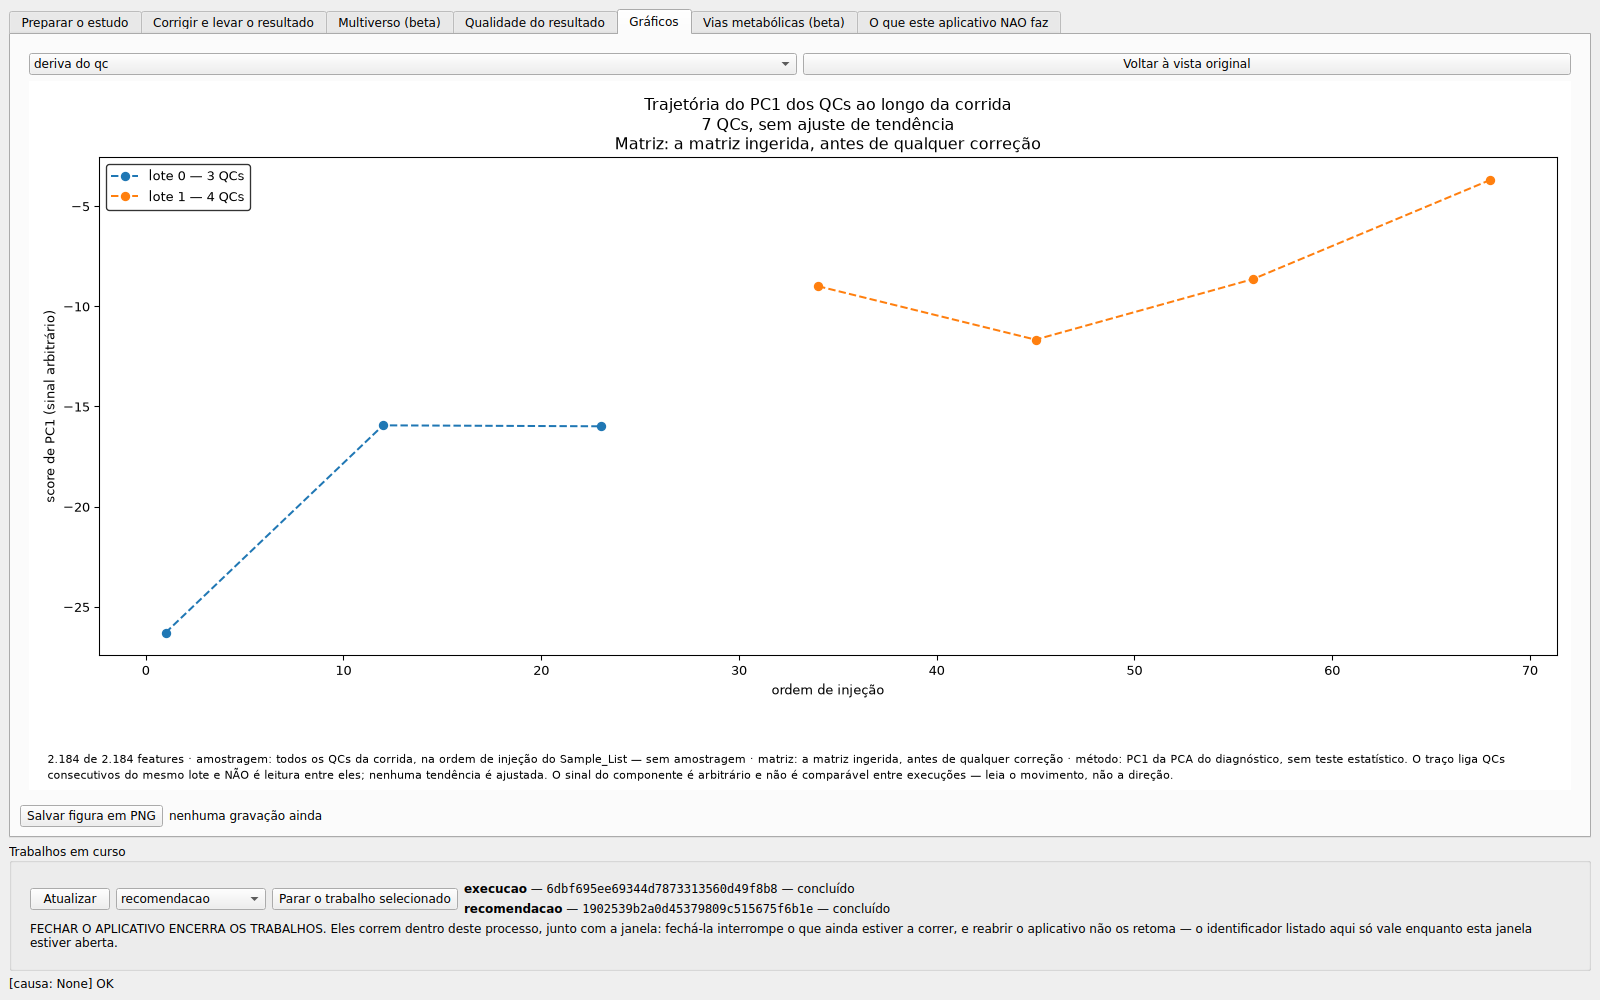
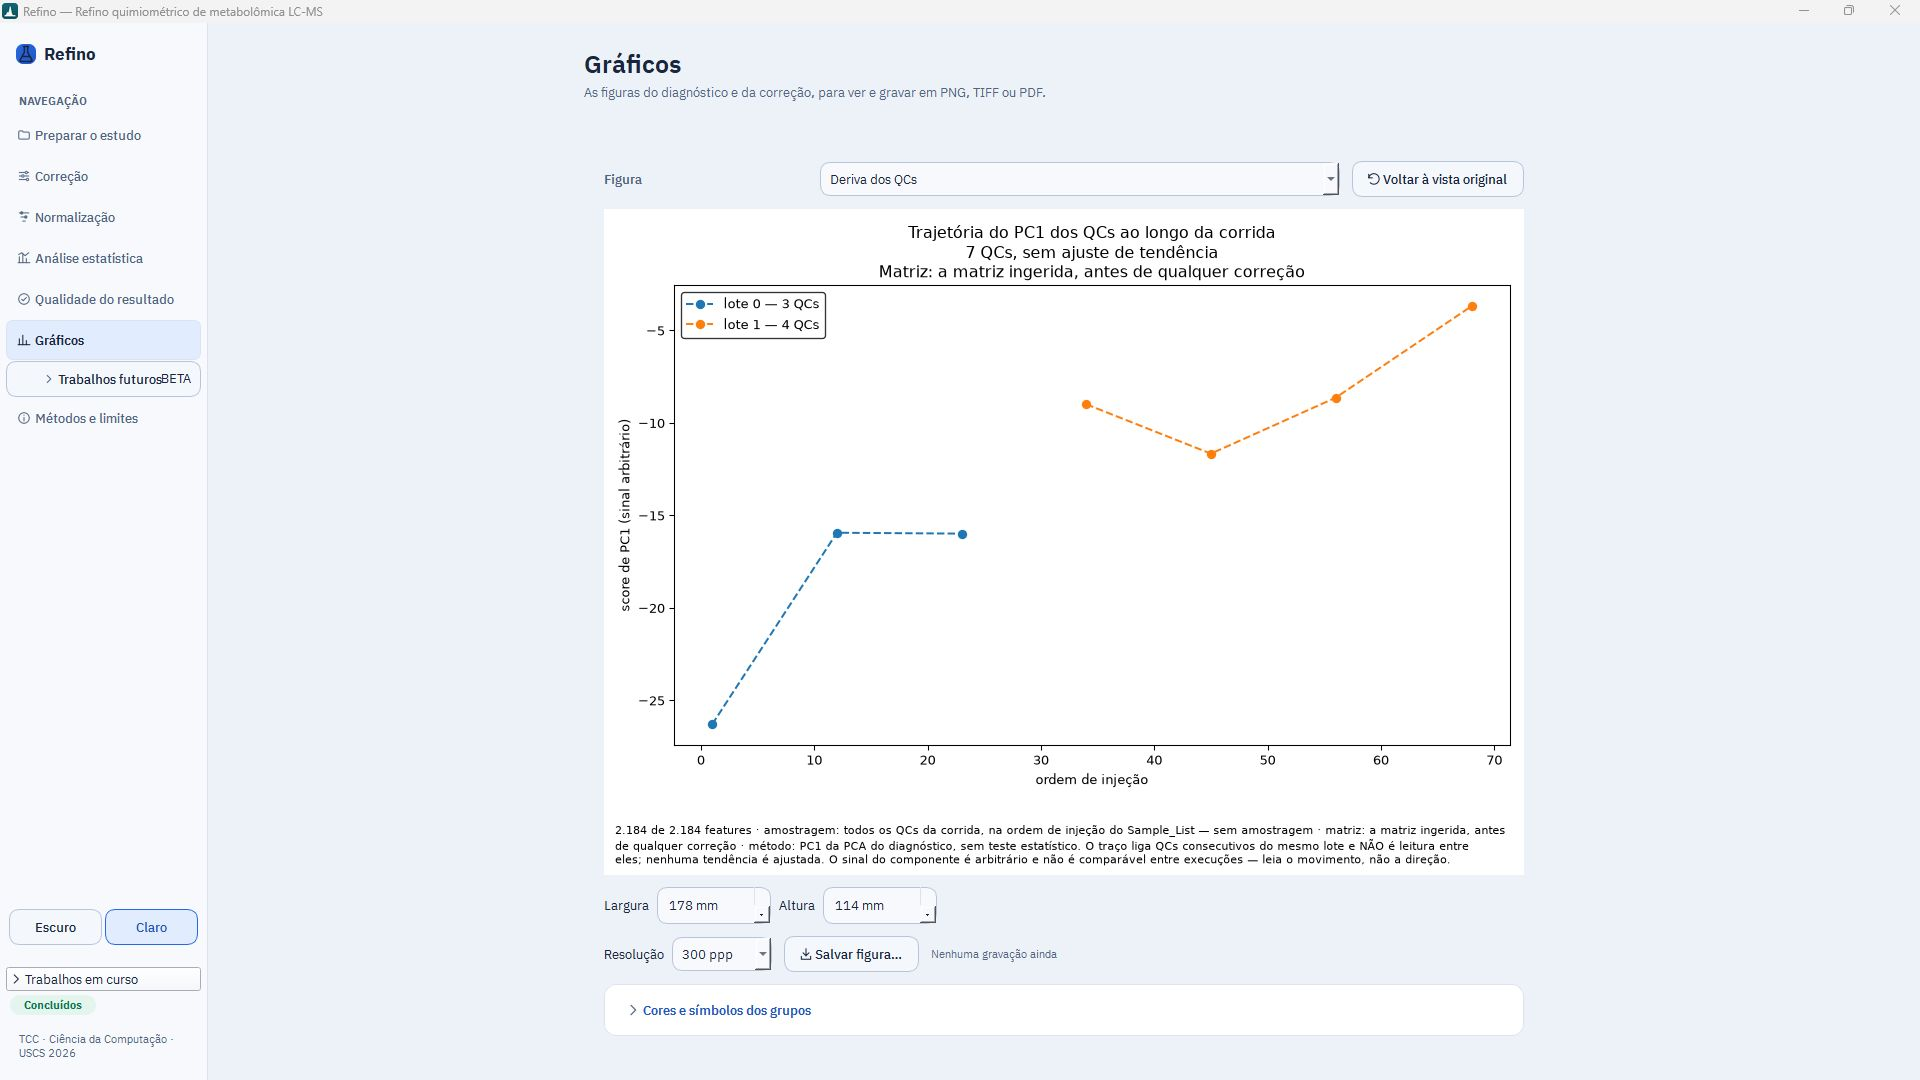
refact: software screenshots in text

diff --git a/2_capitulos/4_desenvolvimento.tex b/2_capitulos/4_desenvolvimento.tex
@@ -757,41 +757,57 @@ A distribuição é realizada em uma pasta que contém o executável e suas depe
 \subsection{Organização das telas e fluxo de utilização}
 \label{subsec:organizacao-telas-fluxo}
 
-A interface é organizada em abas dispostas em uma barra lateral que agrupam as operações conforme sua finalidade. O fluxo principal compreende a preparação do estudo, a correção de sinal, a normalização e a análise estatística dos dados, além da avaliação da qualidade dos resultados e a inspeção dos gráficos. Uma área fixa de trabalhos em curso permite acompanhar as operações iniciadas durante a utilização do aplicativo. Além dessas, duas abas trazem funcionalidades em versão beta, fora do escopo deste trabalho, a análise de robustez e a identificação de vias metabólicas, e a última, ``O que este aplicativo NÃO faz'', descreve os limites da ferramenta, num total de nove abas.
+A interface é organizada em áreas acessíveis por um menu lateral. O fluxo principal compreende \textit{Preparar o estudo}, \textit{Correção}, \textit{Normalização}, \textit{Análise estatística}, \textit{Qualidade do resultado} e \textit{Gráficos}. A área \textit{Métodos e limites} reúne orientações metodológicas. Os recursos experimentais permanecem recolhidos em \textit{Trabalhos futuros}, separados do percurso principal, e não integram o escopo avaliado neste trabalho.
 
-A Figura~\ref{fig:4-aba-qualidade} mostra a aba ``Qualidade do resultado'', com cada métrica acompanhada da população em que foi medida, e a Figura~\ref{fig:4-aba-graficos}, a aba ``Gráficos'', com a trajetória dos QCs ao longo da corrida. As duas foram capturadas com os arquivos de um dos modos do estudo do laboratório, depois de uma execução sem correção.
+As Figuras~\ref{fig:4-preparar-estudo} a~\ref{fig:4-aba-graficos} apresentam a interface da versão Windows de 19/11/2026, identificada como \texttt{windows-\allowbreak{}2026.\allowbreak{}11.\allowbreak{}19.\allowbreak{}1}. As capturas utilizam os arquivos \texttt{measurements\_\allowbreak{}neg\_\allowbreak{}c18.csv} e \texttt{Sample\_\allowbreak{}List\_\allowbreak{}neg\_\allowbreak{}c18.csv}, fornecidos pelo grupo: a matriz de entrada contém 2.184 variáveis e 68 amostras, das quais sete são QCs. As imagens documentam a utilização dessa versão e não substituem os ensaios e a avaliação do laboratório descritos no capítulo de testes.
+
+A área \textit{Preparar o estudo} concentra a seleção dos arquivos e a verificação das informações necessárias ao processamento. A matriz de medições é associada à lista de amostras, que fornece os metadados, incluindo a ordem de injeção. A Figura~\ref{fig:4-preparar-estudo} mostra as duas entradas carregadas e o resumo da validação. Nessa captura, os arquivos foram aceitos com 17 avisos, condição que exige a leitura das ocorrências antes de prosseguir.
 
 \begin{figure}[htbp]
 \centering
-\caption{Aba ``Qualidade do resultado'' do aplicativo}\label{fig:4-aba-qualidade}
+\caption{Preparação do estudo: seleção dos arquivos e resumo da validação}\label{fig:4-preparar-estudo}
+\includegraphics[width=\linewidth]{figs/cap4-preparar-estudo.png}
+\fonte{Elaborado pelos autores, com o aplicativo Windows, em 19/11/2026.}
+\end{figure}
+
+Os problemas identificados na validação são apresentados antes da execução do tratamento, permitindo revisar as inconsistências e corrigir as entradas. O diagnóstico acrescenta informações sobre o comportamento da matriz e dos controles de qualidade, auxiliando a avaliação de possíveis fronteiras de lote. O palpite constitui uma operação distinta, solicitada pelo usuário, para comparar os corretores em uma amostra de 200 \textit{features}; ele não foi executado nas capturas apresentadas. As informações oferecidas pela ferramenta permanecem sujeitas à interpretação do profissional.
+
+A área \textit{Correção} reúne a escolha do corretor, a declaração dos lotes, a variante do RSD dos QCs e a opção de utilizar vários núcleos de processamento. A Figura~\ref{fig:4-configuracao-correcao} ilustra a seleção manual do SERRF e de dois lotes, com quatro e três QCs, respectivamente. O botão ``Seguir sugestões do app'' permite preencher os controles com as sugestões disponíveis, sem retirar a possibilidade de revisão dos parâmetros. A comparação completa entre os corretores é uma operação própria, acionada pelo botão ``Medir qual corretor vence (minutos)'', e não deve ser confundida com a aplicação de um método escolhido pelo usuário.
+
+\begin{figure}[htbp]
+\centering
+\caption{Configuração da correção: seleção manual do SERRF e declaração de dois lotes}\label{fig:4-configuracao-correcao}
+\includegraphics[width=\linewidth]{figs/cap4-configuracao-correcao.png}
+\fonte{Elaborado pelos autores, com o aplicativo Windows, em 19/11/2026.}
+\end{figure}
+
+Ao abrir a área de correção, os valores iniciais são sem correção, um lote e RSD calculado com todos os QCs. A sugestão disponível é exibida ao lado do botão \textit{Seguir sugestões do app}, e sua justificativa pode ser consultada pelo botão ``?''. A seleção manual apresentada na figura corresponde a uma configuração posterior desses controles.
+
+O painel produzido após a conclusão desse cenário com SERRF é apresentado na Figura~\ref{fig:5-1}. Já a área \textit{Normalização} concentra as opções de filtragem, imputação de valores ausentes, normalização por amostra, transformação e escalonamento. A seleção da matriz de entrada permite aplicar essas operações à matriz original ou à saída da correção, conforme a disponibilidade e a validade de cada resultado.
+
+Na normalização, o botão \textit{Seguir sugestões do app} devolve os campos aos valores iniciais, que constituem pontos de partida, sem representar uma escolha medida para a matriz. As matrizes corrigida e normalizada podem ser salvas nas respectivas áreas, tanto no formato do laboratório, com as \textit{features} nas linhas, quanto no formato do MetaboAnalyst.
+
+Na área \textit{Análise estatística}, o usuário identifica o estudo, define os grupos de comparação e seleciona as análises desejadas. Correção, normalização e análise possuem comandos de execução e estados próprios. Uma alteração de parâmetros pode tornar uma saída desatualizada; nessa situação, o aplicativo orienta a refazer a etapa correspondente. A configuração aplicada permanece associada ao resultado, permitindo relacionar as medidas apresentadas aos procedimentos utilizados.
+
+A área \textit{Qualidade do resultado} reúne os indicadores utilizados na avaliação do tratamento. A Figura~\ref{fig:4-aba-qualidade} mostra as medidas de dispersão dos QCs de uma execução sem correção, com imputação por um quinto do menor valor positivo, sem normalização por amostra, transformação logarítmica na base 10 e escalonamento Pareto. O cenário é distinto da configuração SERRF ilustrada anteriormente. As medidas informam a população utilizada; nessa execução, 2.158 variáveis possuem RSD definido na matriz avaliada. As medidas fora da amostra identificadas como indisponíveis permanecem explicitamente indicadas dessa forma.
+
+\begin{figure}[htbp]
+\centering
+\caption{Qualidade do resultado: medidas de dispersão dos QCs no cenário sem correção}\label{fig:4-aba-qualidade}
 \includegraphics[width=\linewidth]{figs/cap4-aba-qualidade.png}
-\fonte{Elaborado pelos autores, com o aplicativo, em 10/11/2026.}
+\fonte{Elaborado pelos autores, com o aplicativo Windows, em 19/11/2026.}
 \end{figure}
+
+A área \textit{Gráficos} disponibiliza as representações dos dados e dos resultados, com seleção da figura, dimensões e resolução para exportação. A Figura~\ref{fig:4-aba-graficos} apresenta a trajetória do primeiro componente principal dos sete QCs ao longo da corrida, calculada sobre as 2.184 variáveis da matriz ingerida, antes de qualquer correção. As séries distinguem os lotes identificados no diagnóstico; as linhas ligam QCs consecutivos do mesmo lote e não representam uma tendência ajustada. O gráfico permite examinar o comportamento do sinal sem atribuir à visualização um teste estatístico que ela não realiza.
 
 \begin{figure}[htbp]
 \centering
-\caption{Aba ``Gráficos'' do aplicativo, com a trajetória dos QCs ao longo da corrida}\label{fig:4-aba-graficos}
+\caption{Gráficos: trajetória do primeiro componente principal dos QCs na matriz de entrada}\label{fig:4-aba-graficos}
 \includegraphics[width=\linewidth]{figs/cap4-aba-graficos.png}
-\fonte{Elaborado pelos autores, com o aplicativo, em 10/11/2026.}
+\fonte{Elaborado pelos autores, com o aplicativo Windows, em 19/11/2026.}
 \end{figure}
 
-A aba \textit{Preparar o estudo} concentra a seleção dos arquivos de entrada e a verificação das informações necessárias ao processamento. Nesse ponto, o usuário informa a matriz de medições e a lista de amostras correspondentes. A aplicação utiliza essas entradas para associar os valores medidos aos metadados, incluindo a ordem de injeção.
-
-Após a seleção, o usuário pode solicitar a validação dos arquivos. Os problemas identificados são apresentados antes da execução do tratamento, permitindo revisar as inconsistências e corrigir as entradas. Essa posição da validação no fluxo evita que falhas estruturais sejam percebidas apenas durante operações de maior duração.
-
-O diagnóstico acrescenta informações sobre o comportamento da matriz e dos controles de qualidade. Seus resultados auxiliam a escolha do método de correção e a avaliação de possíveis fronteiras de lote. As sugestões produzidas pelo sistema permanecem sujeitas à revisão do profissional.
-
-A aba \textit{Correção} reúne a escolha do corretor, o número de lotes e a variante do RSD dos QCs. Ela abre com os valores padrão: sem correção, com um lote e com o RSD calculado com todos os QCs. O botão \textit{Seguir sugestões do app} preenche o corretor indicado pelo palpite, medido em 200 \textit{features}, e o número de lotes proposto pelo diagnóstico; a sugestão aparece ao lado do botão, e a justificativa é aberta pelo botão ``?'' ao lado dela. O usuário pode também escolher o corretor e os lotes manualmente e comparar os métodos pela medição completa.
-
-A aba \textit{Normalização} reúne as operações posteriores à correção: filtragem por RSD e por valores ausentes, imputação, normalização por amostra, transformação e escalonamento. Nela, o mesmo botão apenas devolve os campos aos valores iniciais, que são pontos de partida e não uma escolha medida para a matriz. A aba \textit{Análise estatística} executa as análises sobre a matriz escolhida como entrada. O resultado da correção e o da normalização podem ser salvos na própria aba, no formato do laboratório, com as \textit{features} nas linhas, ou no do MetaboAnalyst.
-
-A configuração aplicada integra o registro da execução. A organização dos controles permite relacionar o resultado aos parâmetros escolhidos, evitando que o processamento seja apresentado como uma operação única cujas decisões internas não possam ser identificadas.
-
-A aba \textit{Qualidade do resultado} apresenta os indicadores utilizados na avaliação do tratamento. As informações são agrupadas por tema, permitindo examinar diferentes aspectos da matriz sem reduzir a qualidade a uma única medida. A apresentação considera o ponto do processamento e as condições em que cada indicador foi calculado.
-
-A aba \textit{Gráficos} disponibiliza as representações visuais dos dados e das análises. O usuário seleciona a figura de interesse e examina aspectos como distribuição dos valores, dispersão dos controles de qualidade, estrutura multivariada e diferenças entre grupos. As figuras também podem ser exportadas para utilização em relatórios e apresentações.
-
-A aba \textit{Métodos e limites} explicita os limites das funcionalidades e reúne as referências dos métodos usados no processamento. Essa informação integra o fluxo de utilização porque o tratamento computacional de uma matriz não equivale à identificação de compostos, à confirmação de significado biológico ou à validação clínica dos resultados.
+A área \textit{Métodos e limites} explicita as condições de interpretação, os limites das funcionalidades e as referências dos métodos utilizados no processamento. O tratamento computacional de uma matriz não equivale à identificação de compostos, à confirmação de significado biológico ou à validação clínica dos resultados.
 
 A área \textit{Trabalhos em curso} permanece disponível durante a navegação. Ela permite consultar o estado das operações e solicitar o cancelamento dos trabalhos que não precisam continuar. Dessa forma, o acompanhamento não fica restrito à aba em que a execução foi iniciada.
 

diff --git a/2_capitulos/5_testes.tex b/2_capitulos/5_testes.tex
@@ -346,19 +346,20 @@ Depois que a ferramenta foi enviada para teste ao professor de metabolômica Ál
 % (docs/plans/2026-09-16-1721-feat-figuras-de-qualidade-da-correcao-plan.md) registra que ele viu a
 % ferramenta e sentiu falta dos gráficos que o pipeline em R gera, relato de 16/09/2026.
 
-A Figura~\ref{fig:5-1} mostra uma delas, o painel da correção, como o aplicativo a desenha: a PCA da matriz antes e depois da correção, com os QCs em vermelho. Ela foi gerada sobre o \texttt{neg\_\allowbreak{}c18}, com a correção pelo SERRF nos dois lotes que o diagnóstico propôs, e o agrupamento dos QCs passou de 0,2975 para 0,1795. A fila de barras do alto fica vazia porque a medição de todos os corretores não foi executada nessa captura. A captura é de 10/11/2026, de uma versão do programa posterior às que este capítulo avalia, e serve para mostrar a figura, e não como resultado.
+A Figura~\ref{fig:5-1} mostra uma delas, o painel da correção, como o aplicativo a desenha: a PCA da matriz antes e depois da correção, com os QCs em vermelho. Ela foi gerada sobre o \texttt{neg\_\allowbreak{}c18}, com SERRF selecionado manualmente e dois lotes declarados, conforme a configuração ilustrada na Figura~\ref{fig:4-configuracao-correcao}. O painel utiliza as 2.184 variáveis da matriz ingerida e da corrigida, antes da normalização, com sete QCs e 61 amostras de estudo. Nessa execução, o agrupamento dos QCs passou de 0,2975 para 0,2195. Os dois lados utilizam PCAs independentes, de modo que seus eixos não são diretamente comparáveis; a leitura considera o agrupamento dos pontos, e não uma correspondência entre as escalas. A área superior apresenta uma orientação em lugar das barras porque a medição completa de todos os corretores não foi executada nessa captura. A imagem foi obtida em 19/11/2026, no executável \texttt{windows-\allowbreak{}2026.\allowbreak{}11.\allowbreak{}19.\allowbreak{}1}, posterior às versões avaliadas nos ensaios deste capítulo. Ela ilustra a interface e uma execução com os arquivos fornecidos, sem constituir reexecução dos ensaios históricos ou nova avaliação pelo laboratório.
 
 \begin{figure}[htbp]
 \centering
-\caption{Painel da correção no aplicativo, sobre o neg\_c18: a PCA antes e depois da correção pelo SERRF, com os QCs em vermelho}\label{fig:5-1}
+\caption{Painel da correção sobre o neg\_c18: PCA antes e depois do SERRF em dois lotes, com os QCs em vermelho}\label{fig:5-1}
 \includegraphics[width=\linewidth]{figs/cap5-painel-da-correcao.png}
-\fonte{Elaborado pelos autores, com o aplicativo, em 10/11/2026.}
+\fonte{Elaborado pelos autores, com o aplicativo Windows, em 19/11/2026.}
 \end{figure}
 
-% Captura por uma variante de scripts/captura_telas_do_guia.py que mantém a caixa «Automático»
-% marcada e abre o «Painel da correção» depois da execução; código de 68c0e3b2, Linux (WSLg). A
-% execução gravada no banco local tem correction = serrf, n_batches = 2 e seed = 42. O 0,2975 de antes
-% é o da Tabela 5.8; o depois difere do dela porque ali a correção usou um lote.
+% Captura real da interface Windows da release windows-2026.11.19.1, sem cursor.
+% Entradas: measurements_neg_c18.csv e Sample_List_neg_c18.csv, fornecidas pelo grupo.
+% SERRF selecionado manualmente, n_batches = 2, RSD com todos os QCs e vários núcleos.
+% Painel da etapa de correção, antes da normalização; medição completa dos corretores não executada.
+% O agrupamento de QC exibido é 0,2975 antes e 0,2195 depois. Não integra os ensaios históricos.
 
 \textbf{Caminho 1 --- a suíte automatizada das figuras.} Em dez módulos de teste das figuras, 383 testes passaram, nenhum reprovou e nenhum foi pulado, em 40,8 s; o módulo da aba, rodado separadamente (ver \ref{sec:5-5}), teve 178 testes aprovados --- o total do arquivo naquela data --- e nenhum reprovado, em 36,3 s. \textit{População:} matrizes pequenas construídas para os testes, e não os quatro arquivos reais --- esse caminho diz que o código faz o que os testes afirmam, e não que as figuras estão certas no dado real.
 
